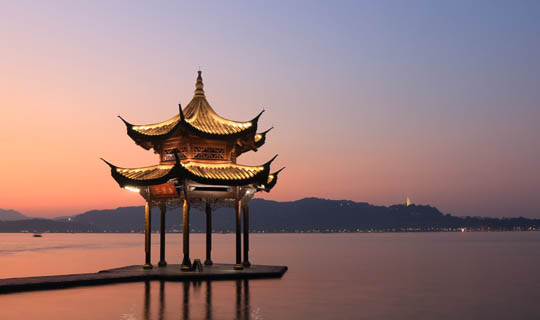
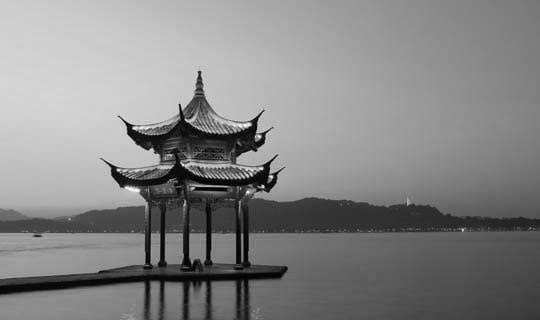
updates

diff --git a/index.html b/index.html
@@ -23,11 +23,18 @@
         <ul class="main-nav">
           <li><a href="#" class="nav-links">Home</a></li>
           <li><a href="#projects" class="nav-links">Projects</a></li>
-          <li><a href="#contact" class="nav-links">Contacta</a></li>
+          <li><a href="#contact" class="nav-links">Contact</a></li>
           <li><a href="https://drive.google.com/file/d/1ofZLJFl7q1xEr_4588w-_woWlZHKPlQW/view?usp=sharing" target="_blank" class="nav-links">CV</a></li>
         </ul>
       </nav>
-      <img src="./img/logo.png" class="logo">
+      <div class="introContainer">
+        <div class="nameContainer">
+          <h1 class="introNameStyle">Sean Nattress<span>...</span></h1>
+        </div>
+        <div>
+          <p class="introCopyStyle">Welcome to my portfolio! I specialise in creating beautiful, responsive websites that are both visually striking and highly functional. With a keen eye for design and a strong foundation in front-end development, I bring ideas to life with smooth user experiences and clean, efficient code.<br><br>Scroll down to see some examples of my work.</p>
+        </div>
+      </div>
     </div>
   </div>
 
@@ -35,45 +42,54 @@
     <div class="col-1">
       <article>
         <a name="projects" class="tile" href="https://seancyan.github.io/reactjs-calendar/" target="_blank">
-          <img src="./img/calendar.jpg" alt="react calendar tile">
+          <img src="./img/workExamplesBW.jpg" alt="work examples">
         </a>
         <div class="tile_overlay red">
           <div class="overlay_content">
-            <h2>React.js Calendar</h2>
+            <h2>Design Work</h2>
             <div class="line"></div>
-            <p>Responsive calendar and integrated to-do list created using React</p>
-            <button><a href="https://seancyan.github.io/reactjs-calendar/" target="_blank">Full Site</a></button><button><a href="https://github.com/SeanCyan/reactjs-calendar" target="_blank">Repo</a></button>
+            <p>Click to view some examples of emails and onsite displays that I have designed for clients</p>
+            <button class="buttonLg"><a href="https://seancyan.github.io/reactjs-calendar/" target="_blank">View More</a></button>
           </div>
         </div>
       </article>
       <div class="col-row">
-        <article class="tile">
-          <img src="./img/mountains.jpg">
+        <article>
+          <a class="tile" href="https://seancyan.github.io/Hangzhou/" target="_blank">
+          <img src="./img/temple.jpg">
+        </a>
+        <div class="tile_overlay red">
+          <div class="overlay_content">
+            <h2>Landing Page</h2>
+            <div class="line"></div>
+            <p>Mockup for a travel site landing page with newsletter signup modal</p>
+            <button><a href="https://seancyan.github.io/Hangzhou/" target="_blank">Full Site</a></button><button><a href="https://github.com/SeanCyan/Hangzhou" target="_blank">Repo</a></button>
+          </div>
         </article>
         <article>
           <a class="tile" href="https://seancyan.github.io/Hangzhou/" target="_blank">
-            <img src="./img/temple.jpg" alt="landing page tile">
+            <img src="./img/ebookBW.jpg" alt="ebooks">
           </a>
           <div class="tile_overlay blue">
             <div class="overlay_content">
-              <h2>Landing Page</h2>
+              <h2>eBooks</h2>
               <div class="line"></div>
-              <p>Mockup for a travel site landing page with newsletter signup modal</p>
-              <button><a href="https://seancyan.github.io/Hangzhou/" target="_blank">Full Site</a></button><button><a href="https://github.com/SeanCyan/Hangzhou" target="_blank">Repo</a></button>
+              <p>Click to view some examples from ebooks that I have completed the design work for</p>
+              <button class="buttonLg"><a href="https://seancyan.github.io/Hangzhou/" target="_blank">View More</a></button>
             </div>
           </div>
         </article>
       </div>
       <article>
-        <a class="tile" href="https://seancyan.github.io/React-Weather-App/" target="_blank">
-          <img src="./img/weather.jpg" alt="weather app tile">
+        <a name="projects" class="tile" href="https://seancyan.github.io/reactjs-calendar/" target="_blank">
+          <img src="./img/calendar2BW.jpg" alt="react calendar tile">
         </a>
         <div class="tile_overlay purple">
           <div class="overlay_content">
-            <h2>React.js Weather App</h2>
+            <h2>React.js Calendar</h2>
             <div class="line"></div>
-            <p>Weather App providing 5-day forecast for requested city. Created using React.</p>
-            <button><a href="https://seancyan.github.io/React-Weather-App/" target="_blank">Full Site</a></button><button>Repo</button>
+            <p>Responsive calendar and integrated to-do list created using React</p>
+            <button><a href="https://seancyan.github.io/reactjs-calendar/" target="_blank">Full Site</a></button><button><a href="https://github.com/SeanCyan/reactjs-calendar" target="_blank">Repo</a></button>
           </div>
         </div>
       </article>
@@ -94,7 +110,7 @@
       </article>
       <article>
         <a class="tile" href="https://seancyan.github.io/vue-image-gallery/" target="_blank">
-          <img src="./img/gallery.jpg" alt="image gallery tile">
+          <img src="./img/galleryBW.jpg" alt="image gallery tile">
         </a>
         <div class="tile_overlay red">
           <div class="overlay_content">
@@ -106,64 +122,9 @@
         </div>
       </article>
     </div>
-    <div class="skills">
-      <h1>My Toolbox</h1>
-      <h2>Design</h2>
-      <div class="icons">
-        <a>
-          <img title="Adobe Photoshop" src="icons/photoshop.svg">
-          <span class="desc"></span>
-        </a>
-        <a>
-          <img title="Adobe Xd" src="icons/xd.svg">
-          <span class="desc"></span>
-        </a>
-        <a>
-          <img title="Adobe Illustrator" src="icons/illustrator.svg">
-          <span class="desc"></span>
-        </a>
-        <a>
-          <img title="Sketch" src="icons/sketch.svg">
-          <span class="desc"></span>
-        </a>
-      </div>
-      <h2>Front-End</h2>
-      <div class="icons">
-        <a>
-          <img title="HTML5" src="icons/html5.svg">
-          <span class="desc"></span>
-        </a>
-        <a>
-          <img title="CSS3" src="icons/css3.svg">
-          <span class="desc"></span>
-        </a>
-        <a>
-          <img title="SASS" src="icons/sass.svg">
-          <span class="desc"></span>
-        </a>
-        <a>
-          <img title="JavaScript" src="icons/js.svg">
-          <span class="desc"></span>
-        </a>
-        <a>
-          <img title="React.js" src="icons/react.svg">
-          <span class="desc"></span>
-        </a>
-        <a>
-          <img title="Vue.js" src="icons/vue.svg">
-          <span class="desc"></span>
-        </a>
-        <a>
-          <img title="Node.js" src="icons/node.svg">
-          <span class="desc"></span>
-        </a>
-        <a>
-          <img title="Git" src="icons/git.svg">
-          <span class="desc"></span>
-        </a>
-      </div>
-    </div>
+
     <div class="footer">
+    <div class="contactContainer">
       <h2>Contact</h2>
       <div class="contact">
         <a name="contact" href="mailto:snattress5@googlemail.com">
@@ -177,7 +138,8 @@
             <img src="icons/dribbble.svg">
             <span>Dribbble</span>
         </a>
-      <div>
+      </a>
+    </div>
     </div>
   </div>
 <script src="javascript/scripts.js"></script>

diff --git a/css/style.css b/css/style.css
@@ -14,7 +14,7 @@
 .nav-links,
 #logo {
   text-decoration: none;
-  color: rgba(255, 255, 255, 0.8);
+  color: rgba(0, 0, 0, 0.8);
 }
 
 .navbar {
@@ -29,7 +29,7 @@
   list-style-type: none;
   display: none;
   flex-direction: column;
-  background-color: rgba(0, 0, 0, 0.616);
+  background-color: rgba(0, 0, 0, 0.24);
 }
 
 .main-nav li {
@@ -70,7 +70,7 @@
   .navbar {
   display: flex;
   position: fixed;
-  background-color: rgba(0, 0, 0, 0.418);
+  background-color: rgb(255, 255, 255);
   width: 100%;
   max-width: 1800px;
   justify-content: space-between;
@@ -106,7 +106,6 @@
 
  #logo:hover,
  .nav-links:hover {
-  color: rgba(255,255,255,1);
   cursor: pointer;
  }
 }
@@ -116,7 +115,8 @@
 
 .paralax {
   position: relative;
-  background-image: url('../img/snowmount.jpg');
+  background-image: url('../img/cityscape.png');
+  background-color: #ffffff;
   height: 100vh;
   max-width: 1800px;
   margin: 0 auto;
@@ -127,7 +127,7 @@
 }
 
 .gradient {
-  background: linear-gradient(268deg, #ff004cad, #574bffad);
+  background: linear-gradient(268deg, #1b1b1bad, #222224ad);
   background-size: 200% 200%;
   height: 100%;
   width: 100%;
@@ -151,6 +151,38 @@
   100%{background-position:0% 48%}
 }
 
+.introContainer {
+  position: absolute;
+  bottom:40px;
+  padding:0 20px;
+  width:100%;
+}
+
+.introContainer .introNameStyle {
+  font-size:36px;
+  line-height:40px;
+  color:#ffffff;
+  letter-spacing:2px;
+  padding-bottom:20px;
+}
+
+.introContainer .introNameStyle span {
+  color:#ff004c6c;
+}
+
+.introContainer .introCopyStyle {
+  font-size:16px;
+  line-height:20px;
+  color:#ffffff;
+  letter-spacing:2px;
+  padding-top:20px;
+}
+
+.nameContainer {
+  border-bottom:1px solid #ffffff;
+}
+
+
 .logo {
   max-width: 500px;
   width:80%;
@@ -162,6 +194,30 @@
 @media all and (min-width: 768px) {
   .paralax {
     background-attachment: fixed;
+  }
+
+
+  .introContainer {
+    position: absolute;
+    bottom:50px;
+    left: 50px;
+    width:60%;
+  }
+  
+  .introContainer .introNameStyle {
+    font-size:56px;
+    line-height:60px;
+    color:#ffffff;
+    letter-spacing:2px;
+    padding-bottom:20px;
+  }
+  
+  .introContainer .introCopyStyle {
+    font-size:22px;
+    line-height:26px;
+    color:#ffffff;
+    letter-spacing:2px;
+    padding-top:20px;
   }
 }
 
@@ -232,7 +288,15 @@ button {
   color: rgb(255, 255, 255);
   background-color: rgba(255, 255, 255, .5);
 }
-
+button.buttonLg {
+  width: 120px;
+  margin: 10px 5px;
+  padding: 5px;
+  border: none;
+  border-radius: 6px;
+  color: rgb(255, 255, 255);
+  background-color: rgba(255, 255, 255, .5);
+}
 button:hover,
 button:active {
   cursor: pointer;
@@ -250,7 +314,7 @@ button>a {
 }
 
 .red {
-  background-color: rgba(255, 0, 76, 0.8);
+  background-color: #ff004ccc;
 }
 
 .blue {
@@ -269,6 +333,8 @@ button>a {
 
   .overlay_content p {
     display: block;
+    line-height:20px;
+    padding: 10px 0;
   }
 
 }

diff --git a/css/layout.css b/css/layout.css
@@ -11,6 +11,7 @@
   max-width: 1800px;
   width: 100%;
   margin: 0 auto;
+  margin-top: 20px;
 }
   
 .col-1 {
